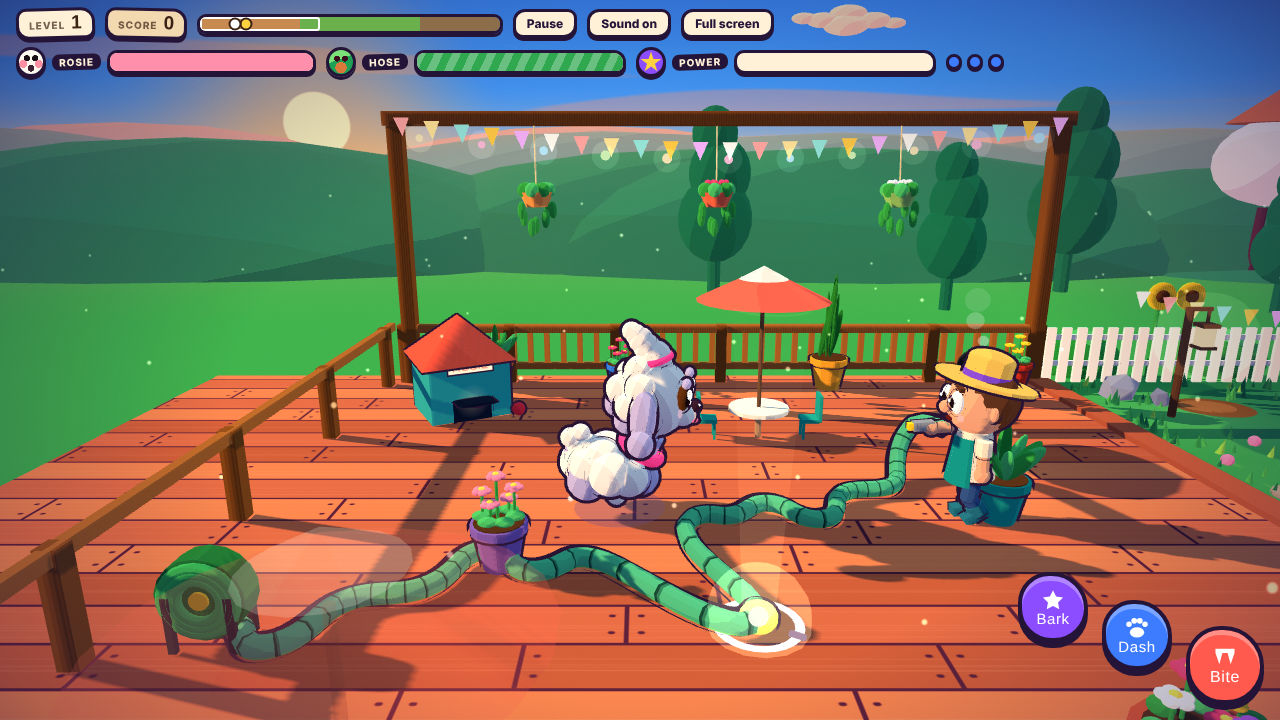
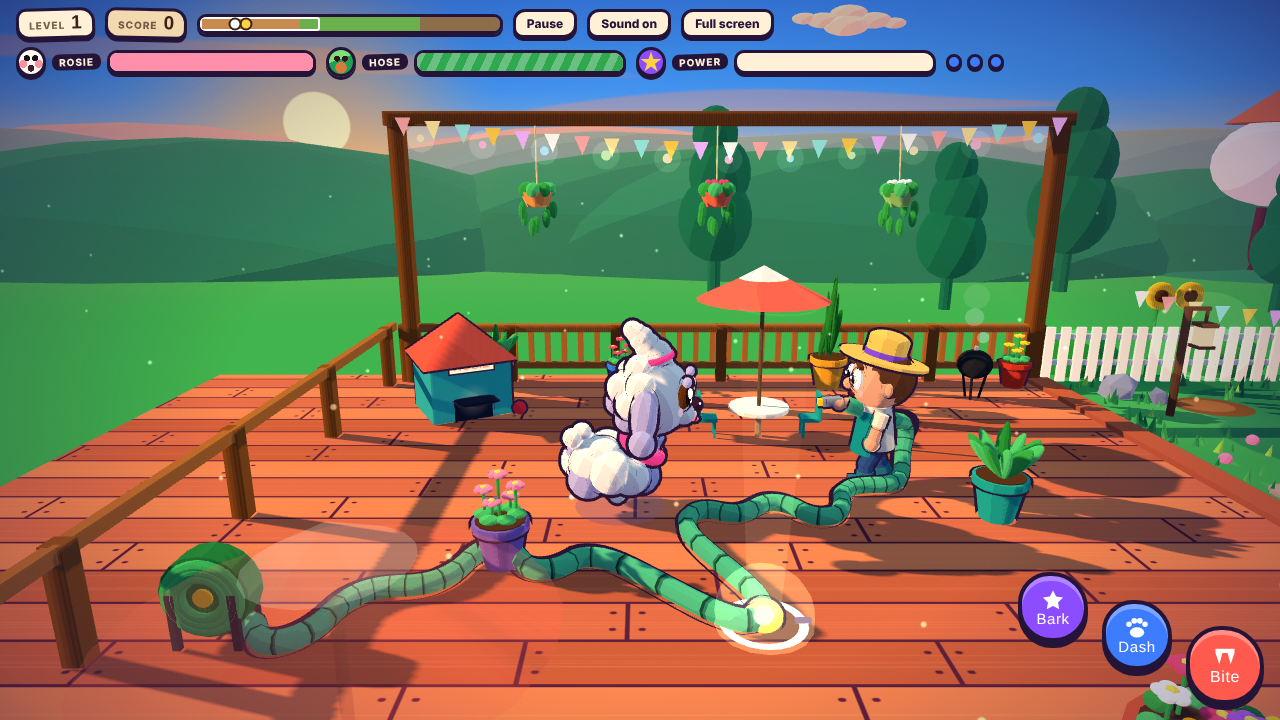
feat: pause menu, difficulty selector and Rosie's wardrobe
Builds design/ux/pause-and-wardrobe.md. Pause button in the HUD with
Escape and P, auto-pause on tab-away and full-screen exit, a count-in on
resume, inline restart confirms, and a dialog with a focus trap. The
pause camera swings to a portrait of Rosie, which doubles as the
wardrobe preview and stops pause being used to study an attack.

Difficulty selector on the title and pause cards, driven through the
ROSIE_MODE global; mid-fight changes queue for the next hose.

Wardrobe with six slots (fur, collar, neckerchief, hat, sweater,
topknot), instant apply, saved under one key with a per-slot fallback.
The fur colour constants are rebuilt on change, so a recoloured Rosie no
longer reverts to cream when wet.

Reworded the wardrobe heading from an internal design note to player
copy.

Known gap: the pause camera cannot fully exclude a rope Rosie is
standing on, so the weak spot can stay in frame while paused. Noted for
the designer rather than papered over.

Refs: design/ux/pause-and-wardrobe.md

Claude-Session: https://claude.ai/code/session_01JR8fsw3Uh5kViP8MJWMfnz

diff --git a/src/index.html b/src/index.html
@@ -202,7 +202,7 @@ button:focus-visible{outline:3px solid var(--sun);outline-offset:3px}
 .panes{flex:1 1 auto;min-width:0;width:100%}
 @media (min-width:720px){.wrap{flex-direction:row}.tabs{flex-direction:column;overflow:visible}}
 .swg{display:grid;grid-template-columns:repeat(4,1fr);gap:6px;margin:0 0 7px}
-.sw{position:relative;font:800 10.5px var(--body);color:var(--ui-ink);background:var(--paper);border:3px solid var(--ui-ink);border-radius:50% 50% 46% 54%;box-shadow:0 3px 0 var(--ui-ink);padding:5px 2px;min-height:48px;cursor:pointer;display:flex;flex-direction:column;align-items:center;justify-content:center;gap:2px;line-height:1.05}
+.sw{position:relative;font:800 10px var(--body);color:var(--ui-ink);background:var(--paper);border:3px solid var(--ui-ink);border-radius:16px 20px 14px 18px;overflow:hidden;box-shadow:0 3px 0 var(--ui-ink);padding:5px 2px;min-height:48px;cursor:pointer;display:flex;flex-direction:column;align-items:center;justify-content:center;gap:2px;line-height:1.05}
 .sw i{display:block;width:24px;height:24px;border-radius:50%;border:3px solid var(--ui-ink);flex:0 0 auto}
 .sw[aria-checked="true"]{box-shadow:0 3px 0 var(--ui-ink),inset 0 0 0 3px var(--ui-ink)}
 .sw[aria-checked="true"] i::after{content:"\2713";display:block;font-size:13px;line-height:18px;color:var(--ui-ink);text-align:center}
@@ -342,7 +342,7 @@ button:focus-visible{outline:3px solid var(--sun);outline-offset:3px}
       </dl>
     </div>
     <div class="pnl" id="wardPanel" hidden>
-      <span class="eyebrow">A wardrobe, not a character creator</span>
+      <span class="eyebrow">Dress her for the fight</span>
       <h2 id="wardTitle">Rosie&#39;s wardrobe</h2>
       <p class="fall" id="wFall" hidden>One of Rosie&#39;s things didn&#39;t make it into this version &mdash; pick her something new.</p>
       <div class="wrap">
@@ -1551,7 +1551,7 @@ function render3D(dt){
   /* 1.4: pause eases (0.35 s) to the wardrobe portrait so the rope, the weak spot and every live
      attack leave the frame -- without this, pause is a free scouting tool. */
   {let px=camTX+hx+(shake>0?rand(-8,8)*shake*4:0),py=ch+(shake>0?rand(-6,6)*shake*4:0),pz=camTZ+cd,lx=camTX+hx,lyv=ly,lz=camTZ-210;
-   if(pauseK>.0005){const pk=pauseK*pauseK*(3-2*pauseK),pcd=wide?380:360,pch=wide?96:66,pa=.58,ply=wide?76:-16,
+   if(pauseK>.0005){const pk=pauseK*pauseK*(3-2*pauseK),pcd=wide?480:430,pch=wide?44:30,pa=1.083-R.ang,ply=wide?150:-45,
      off=wide?-Math.tan(baseFov*Math.PI/360)*cam.aspect*pcd*.42:0,rx=Math.cos(pa)*off,rz2=-Math.sin(pa)*off;
     px=lerp(px,R.x+Math.sin(pa)*pcd+rx,pk);py=lerp(py,pch,pk);pz=lerp(pz,rz+Math.cos(pa)*pcd+rz2,pk);
     lx=lerp(lx,R.x+rx,pk);lyv=lerp(lyv,ply,pk);lz=lerp(lz,rz+rz2,pk);}
